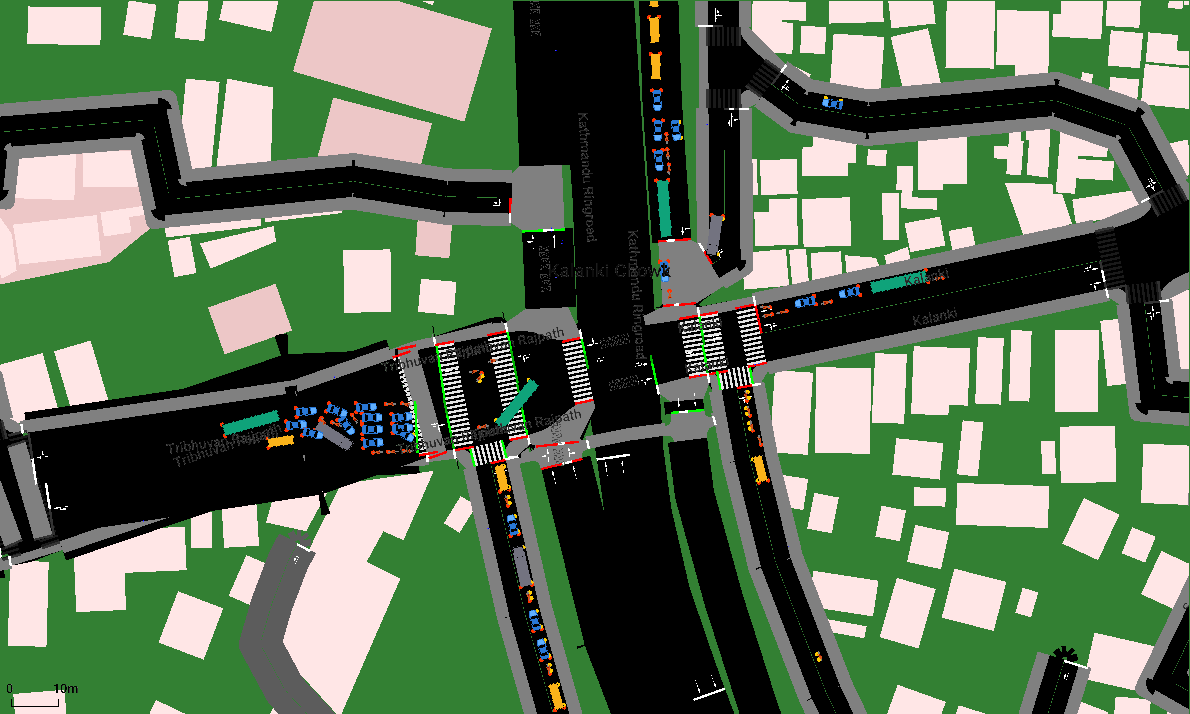
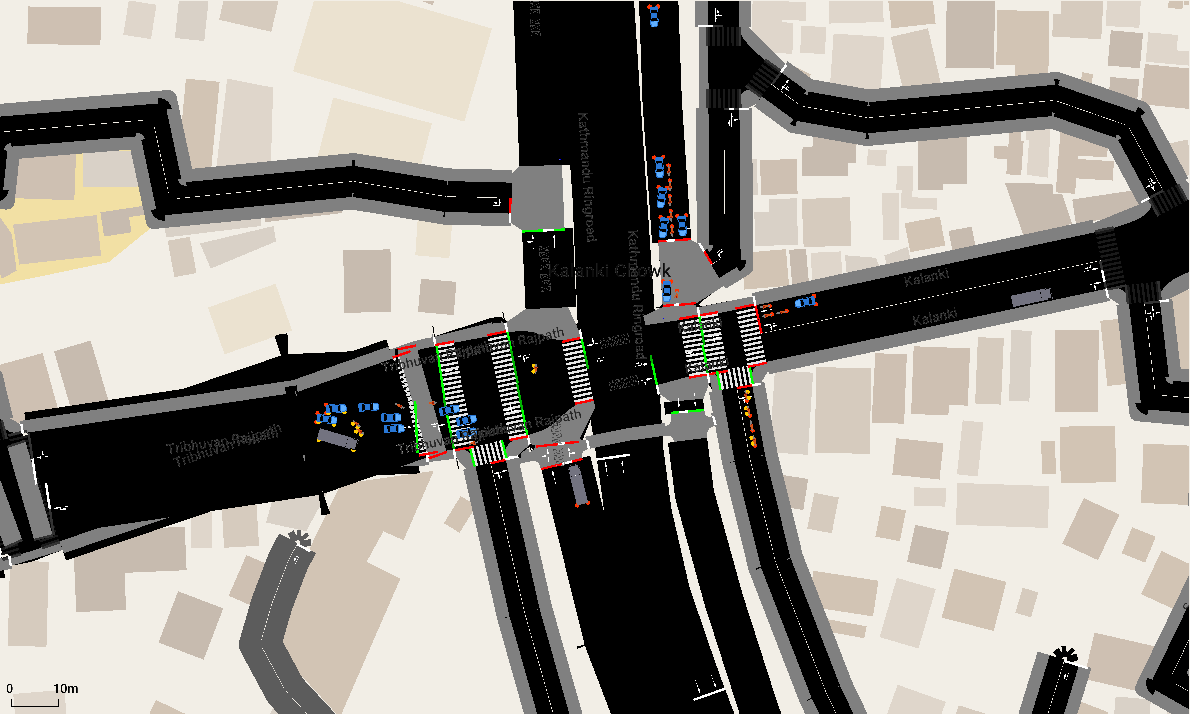
feat: real-map building colors in sumo-gui (OSM-carto style)
polyconvert paints every OSM building the same washed-out pink on a
saturated green background. Now buildings get warm varied tones (stable
per OSM id via CRC32), schools/shops/water get their familiar map
colors, and the view background is light map beige — sumo-gui reads
like a real city map of Kalanki. README screenshot regenerated.

diff --git a/setup/build_network.py b/setup/build_network.py
@@ -384,6 +384,55 @@ def extract_place_names(poly_file: Path, places_file: Path) -> None:
     print(f"Stripped {removed} decorative POIs from {poly_file}")
 
 
+def restyle_polygons(poly_file: Path) -> None:
+    """Recolor the OSM polygons so sumo-gui reads like a real map.
+
+    polyconvert paints every building the same washed-out pink; real blocks
+    are a mix of tones. Each building gets one of a few warm plaster/brick
+    shades — chosen by CRC32 of its OSM id, so colors are stable across
+    rebuilds (hash() would reshuffle every run). Land-use types get their
+    familiar OSM-carto colors. Only sumo-gui is affected: the dashboard
+    draws buildings with its own palette (dashboard/junction_view.py).
+    """
+    import zlib
+
+    building_tones = [
+        "223,214,203", "214,203,190", "206,192,178", "217,209,199",
+        "199,187,175", "210,196,180",
+    ]
+    type_colors = {
+        "school": "242,224,164",
+        "kindergarten": "242,224,164",
+        "university": "242,224,164",
+        "commercial": "238,205,205",
+        "shop": "238,205,205",
+        "retail": "238,205,205",
+        "industrial": "223,209,214",
+        "residential": "228,224,218",
+        "amenity": "235,226,208",
+        "water": "170,211,223",
+        "forest": "205,224,196",
+        "park": "205,224,196",
+        "leisure": "205,224,196",
+        "grass": "213,229,203",
+    }
+
+    tree = ET.parse(poly_file)
+    recolored = 0
+    for poly in tree.getroot().findall("poly"):
+        ptype = poly.get("type", "")
+        if ptype == "building":
+            idx = zlib.crc32(poly.get("id", "").encode()) % len(building_tones)
+            poly.set("color", building_tones[idx])
+        elif ptype in type_colors:
+            poly.set("color", type_colors[ptype])
+        else:
+            continue
+        recolored += 1
+    tree.write(poly_file, encoding="UTF-8", xml_declaration=True)
+    print(f"Recolored {recolored} polygons in {poly_file}")
+
+
 def write_labels(net_file: Path, labels_file: Path, tls_id: str) -> None:
     """Write the junction-name label POI for sumo-gui.
 
@@ -434,6 +483,10 @@ def write_gui_settings(view_file: Path, net_file: Path) -> None:
          the whole network; 1100 is roughly a 150 m circle. -->
     <viewport zoom="1100" x="{x:.2f}" y="{y:.2f}"/>
     <scheme name="real world">
+        <!-- Map-style light beige instead of the scheme's saturated green:
+             the recolored OSM buildings (restyle_polygons) read like a real
+             city map against it. -->
+        <background backgroundColor="242,238,230" showGrid="0"/>
         <!-- Slightly wider lanes so the colored link rules (the signal state
              bars painted across each lane at the stop line) stand out; keep
              realisticLinkRules off so bars use bright full red/green/yellow. -->
@@ -531,6 +584,7 @@ def main() -> None:
     # Real Kalanki buildings and named places for the visual layers.
     generate_polygons(osm_file, config.NET_FILE, config.POLY_FILE)
     extract_place_names(config.POLY_FILE, config.PLACES_FILE)
+    restyle_polygons(config.POLY_FILE)
     write_gui_settings(config.GUI_SETTINGS_FILE, config.NET_FILE)
 
     # Junction + street name labels for sumo-gui (needs the signalized node).

diff --git a/README.md b/README.md
@@ -21,7 +21,8 @@ corridor is green, every other approach red, the ambulance (red arrow) at
 the junction. Buildings and place names are real OSM data.*
 
 ![sumo-gui zoomed on the Kalanki signals](docs/img/sumo-gui-kalanki.png)
-*sumo-gui opens centered on the chowk: named streets, the Ring Road
+*sumo-gui opens centered on the chowk: real OSM buildings in map colors
+(the amber block is an actual school), named streets, the Ring Road
 underpass box, zebra crossings, and readable signal stop bars.*
 
 ## Realistic by construction